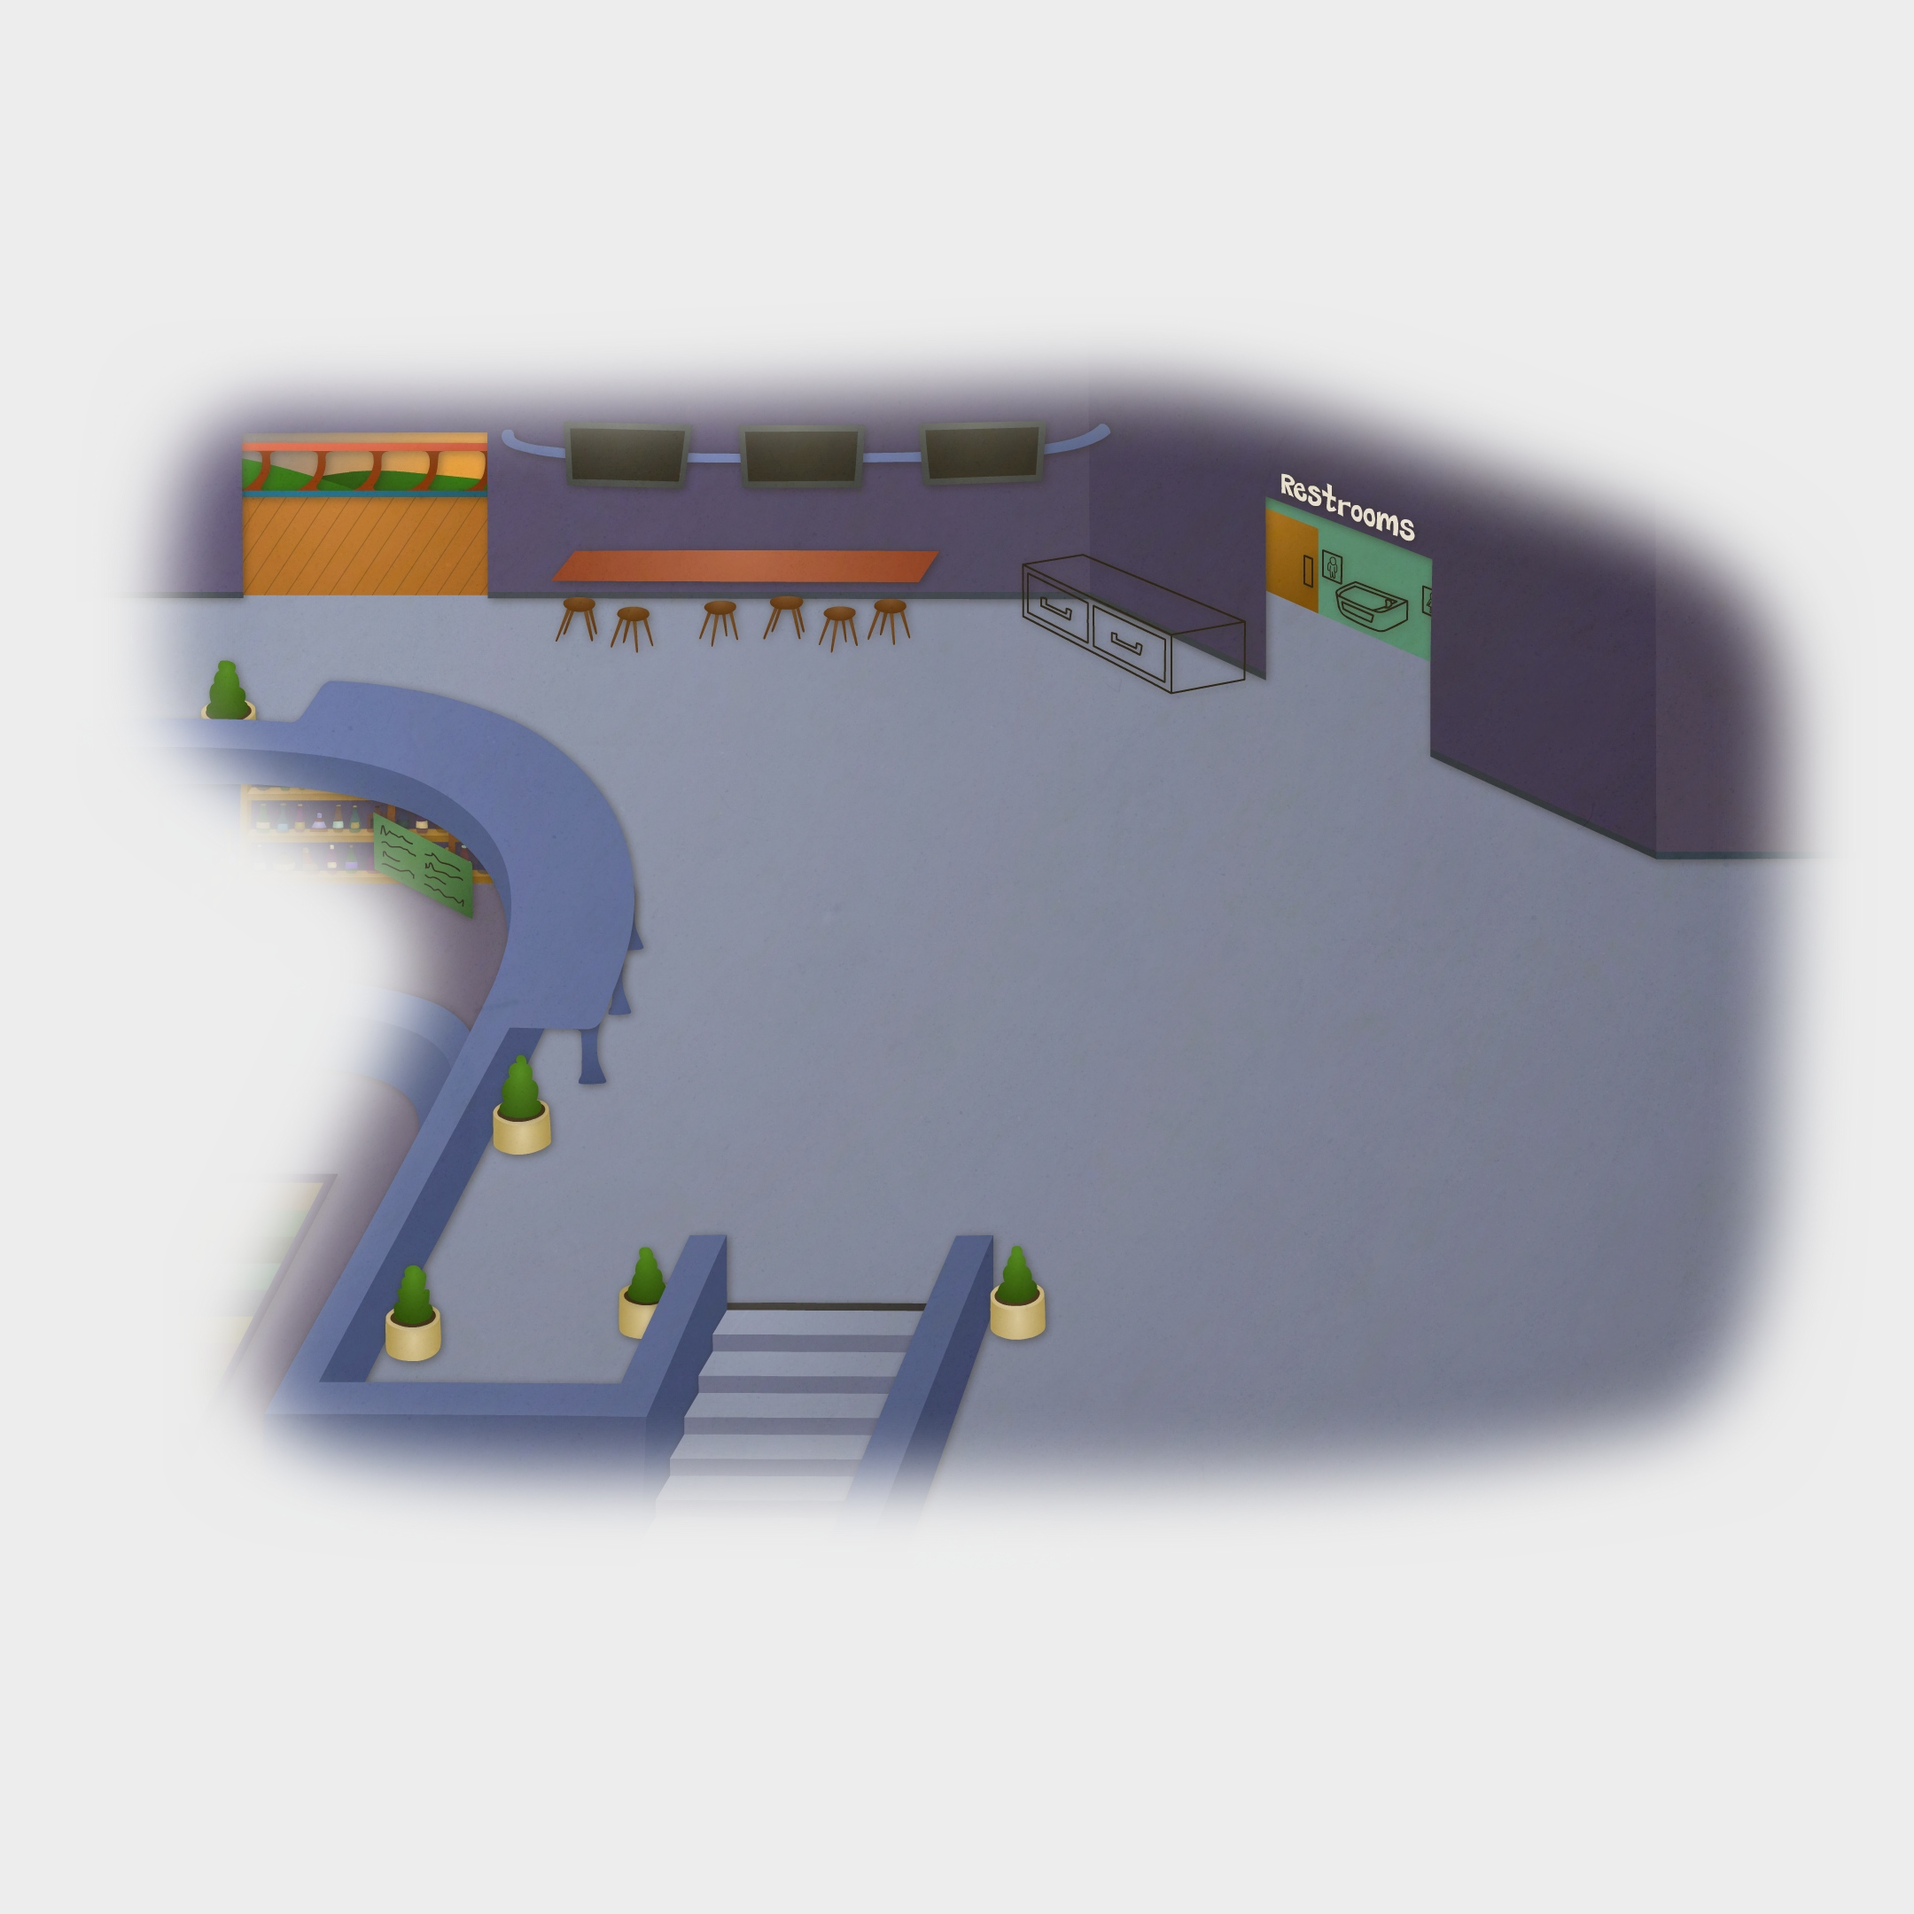
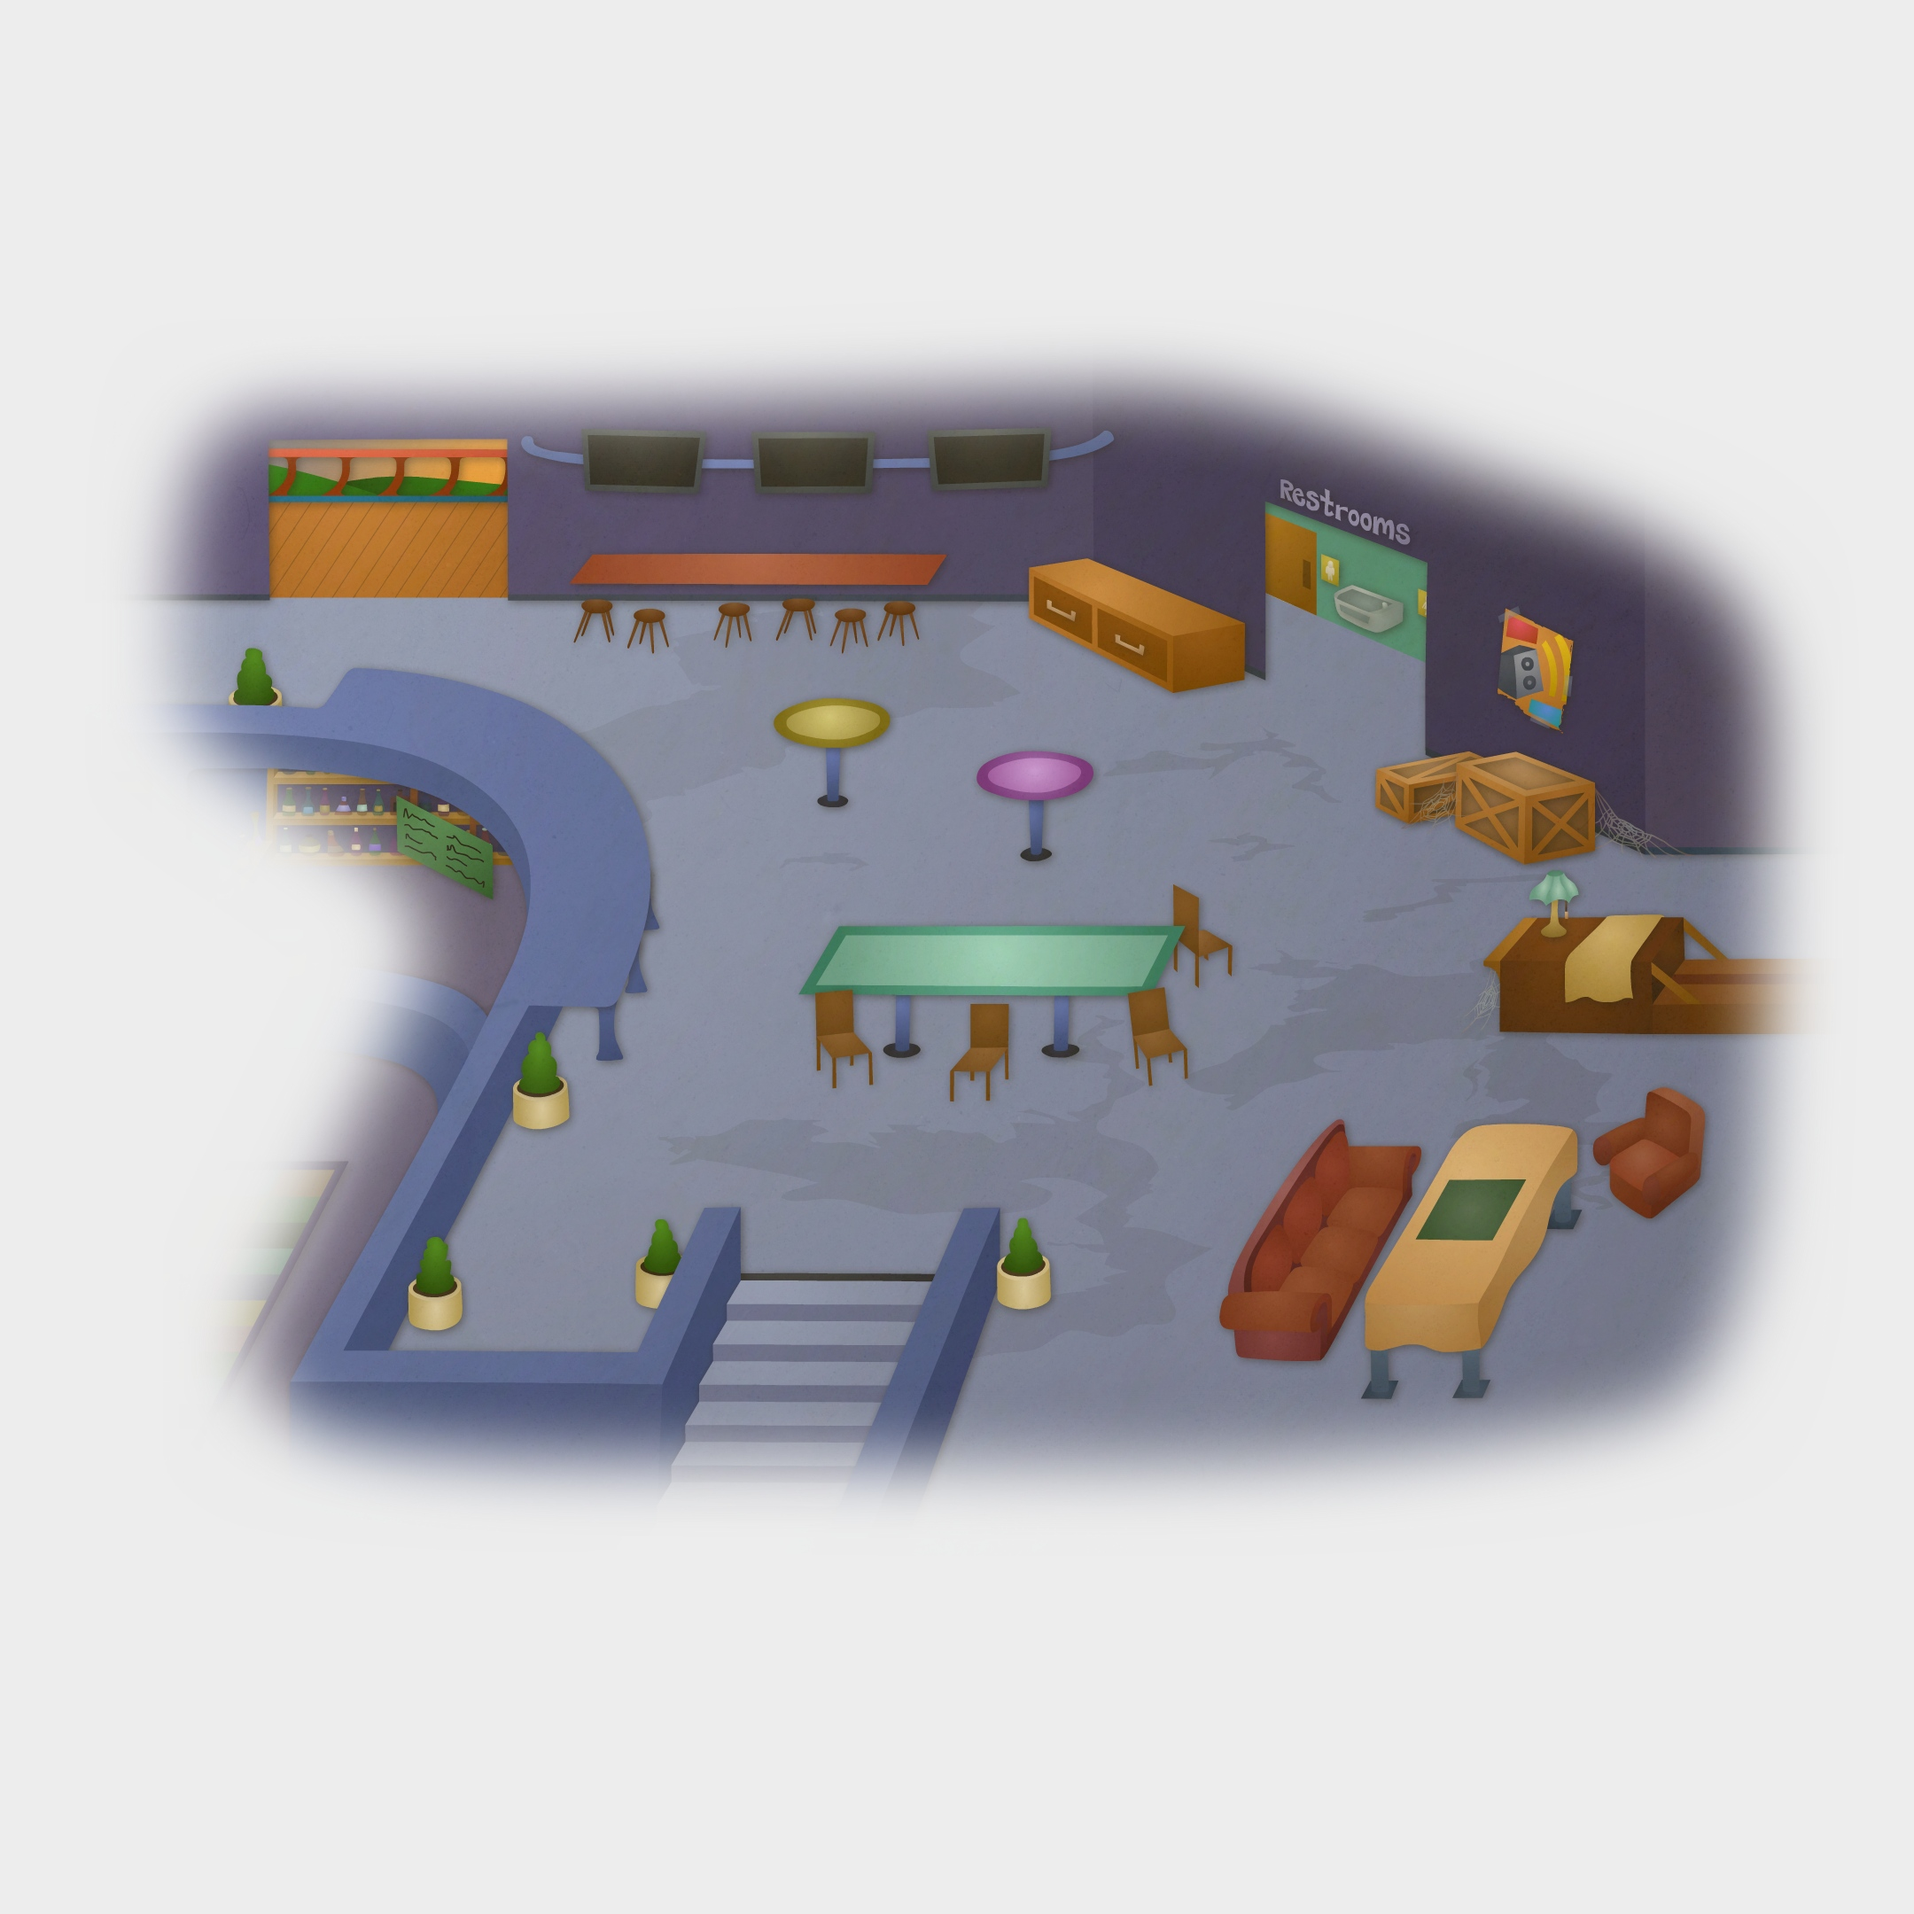
Add completed Rage Room Upper Level and updated Lower Level

diff --git a/frontend/src/constants/regions.js b/frontend/src/constants/regions.js
@@ -10,7 +10,7 @@ const regions = [
     name: "Palm Tree Paradise",
     code: "beach",
     position: [23, 21],
-    zoom: [6, 280, 175],
+    zoom: [6, 23.5, 22.5],
     arrow: [80, "down"],
     color: "#b3e89f",
     divisions: [
@@ -39,7 +39,7 @@ const regions = [
     name: "Commute City",
     code: "city",
     position: [50, 61],
-    zoom: [4, 0, 33],
+    zoom: [4, 0, 3.5],
     arrow: [50, "up"],
     color: "#adcaf5",
     divisions: [
@@ -68,7 +68,7 @@ const regions = [
     name: "The Rage Room",
     code: "club",
     position: [76, 19],
-    zoom: [5, -225, 170],
+    zoom: [5, -20, 21],
     arrow: [20, "down"],
     color: "#ede096",
     divisions: [
@@ -79,7 +79,7 @@ const regions = [
         arrow: [50, "down"],
         image: ClubLower,
         direction: [-40, 15],
-        exit: [81, 69],
+        exit: [80, 69],
       },
       {
         name: "Upper Level",
@@ -88,7 +88,7 @@ const regions = [
         arrow: [50, "down"],
         image: ClubUpper,
         direction: [40, -15],
-        exit: [41.5, 72.5],
+        exit: [42, 72],
       }
     ],
     holdsProjects: true,

diff --git a/frontend/src/components/Island.jsx b/frontend/src/components/Island.jsx
@@ -60,8 +60,8 @@ const Island = (props) => {
           animate={{
             opacity: 1,
             scale: focusRegion ? focusRegion.zoom[0] : 1,
-            x: focusRegion ? focusRegion.zoom[1] * focusRegion.zoom[0] : 0,
-            y: focusRegion ? focusRegion.zoom[2] * focusRegion.zoom[0] : 0,
+            x: `${focusRegion ? focusRegion.zoom[1] * focusRegion.zoom[0] : 0}%`,
+            y: `${focusRegion ? focusRegion.zoom[2] * focusRegion.zoom[0] : 0}%`,
             transition: {
               ease: focusRegion ? [.67, 0, .33, 1] : [.5, 0, .15, 1],
               duration: focusRegion ? 0.5 : 0.6,

diff --git a/frontend/src/stylesheets/UpdatesBox.css b/frontend/src/stylesheets/UpdatesBox.css
@@ -70,6 +70,7 @@
 
 .updatesList {
   overflow-y: scroll;
+  scrollbar-gutter: stable;
   overscroll-behavior: contain;
   border-radius: 1em;
   margin: 0 0.8em 0 0;
@@ -77,6 +78,7 @@
 }
 
 .updatesList::-webkit-scrollbar {
+  -webkit-appearance: none;
   width: 0.8em;
   border-radius: 999px;
 }
@@ -86,6 +88,7 @@
   margin-bottom: 0.8em;
   box-shadow: inset 0.05em 0.05em 0.25em 0.05em rgba(0, 0, 0, 0.5);
   border-radius: 999px;
+  cursor: pointer;
   background-color: hsl(from var(--background-color) h s calc(l - 10));
 }
 
